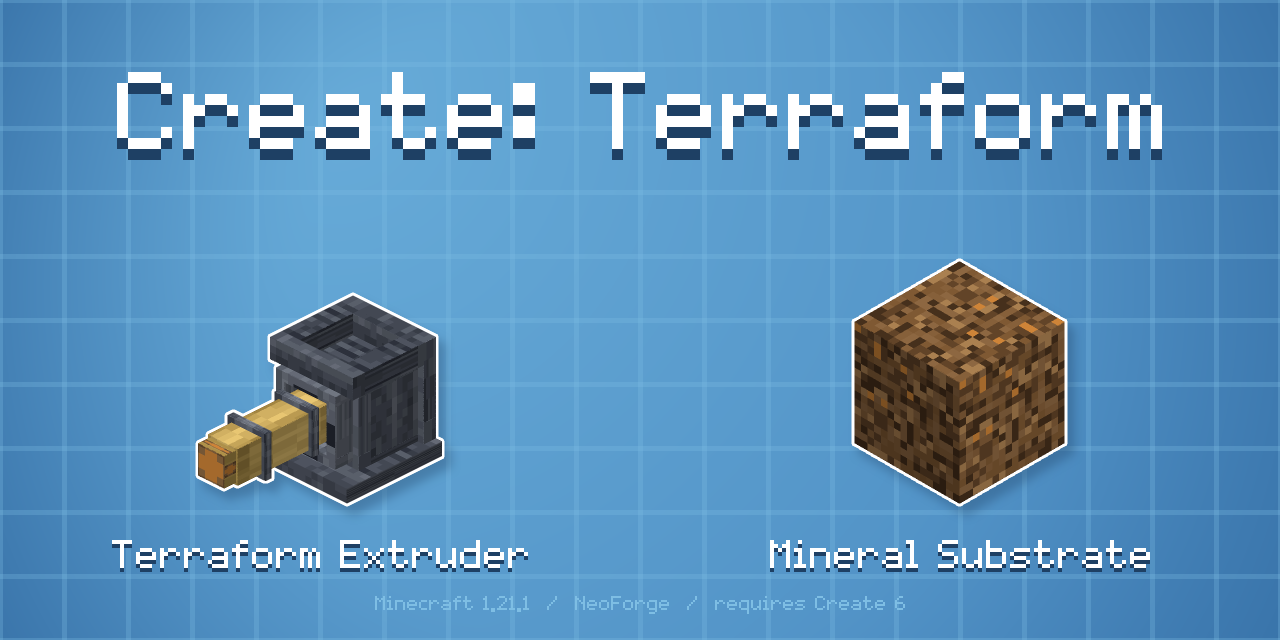
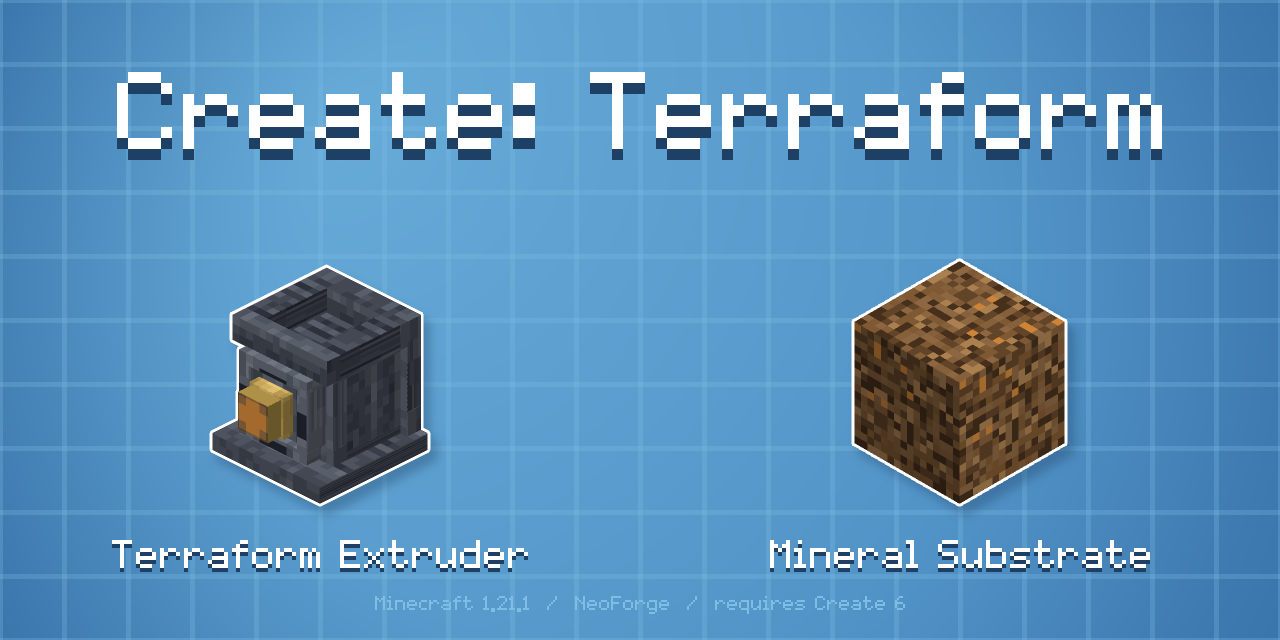
Unswap the vertical facings, and stow the barrel in the item
An Extruder placed pointing up faced down. The casing is authored facing
south, so each blockstate variant is the rotation carrying +Z onto the
facing, and the two vertical ones were the wrong way round.

Create's Mechanical Drill settles the convention, being the same kind of
block: its model is authored pointing UP -- facing=up carries no rotation
-- and facing=north is x:90. So x:90 carries +Y onto -Z, and the same
rotation carries +Z onto +Y. South-authored, that makes x:90 the up
variant and x:270 the down one.

The item model now stows the barrel. In the world it rests at working
reach, with the cutting head a pixel short of the block being printed
into, which is right there and wasteful in an inventory slot: fifteen
pixels of it hang outside the cell and everything else shrinks to make
room, so the icon was a small machine and a long lance. Wound back to
just clear of the chuck, the item is the machine.

That is the one place the item model is allowed to disagree with the
partials, and it is a difference of pose rather than of parts: same
boxes, same textures, same order.

Claude-Session: https://claude.ai/code/session_0132JF9mQgLwheJRjZxYX5xh

Changed region(s): [[0.125, 0.4062, 0.375, 0.8125]]

diff --git a/tools/generate_models.py b/tools/generate_models.py
@@ -245,13 +245,21 @@ def to_model(boxes, textures, comment):
             'textures': dict({'particle': particle}, **textures), 'elements': elements}
 
 
+#: The casing is authored facing SOUTH, so each variant is the rotation that carries +Z onto the
+#: facing. The two vertical ones were the wrong way round, which put an Extruder placed pointing up
+#: face down and vice versa.
+#:
+#: The convention is fixed by Create's own Mechanical Drill, which is the same kind of block: its
+#: model is authored pointing UP -- `facing=up` carries no rotation -- and `facing=north` is `x: 90`.
+#: So `x: 90` carries +Y onto -Z, and the same rotation carries +Z onto +Y. South-authored, that
+#: makes `x: 90` the UP variant and `x: 270` the DOWN one.
 VARIANTS = {
     'facing=south': {},
     'facing=north': {'y': 180},
     'facing=east':  {'y': 270},
     'facing=west':  {'y': 90},
-    'facing=up':    {'x': 270},
-    'facing=down':  {'x': 90},
+    'facing=up':    {'x': 90},
+    'facing=down':  {'x': 270},
 }
 
 
@@ -366,6 +374,21 @@ def main():
     # The item has to show the machine complete, because the block model leaves the moving parts to
     # the renderer. Create does the same in deployer/item.json. Built from the same sources here so
     # it cannot drift out of step by hand.
+    # The barrel, stowed, for the item only. In the world it rests at working reach, with the
+    # cutting head a pixel short of the block being printed into -- which is correct there and
+    # wasteful in an inventory slot: fifteen pixels of it hang outside the cell, and everything has
+    # to shrink to make room, so the machine ends up small and mostly air. Wound back to just clear
+    # of the chuck, the item is the machine rather than the machine and a lance.
+    #
+    # The one place the item model is allowed to disagree with the partials, and it is a difference
+    # of pose rather than of parts: same boxes, same textures, same order.
+    stowed = [
+        {'from': [5.5, 2, 5.5], 'to': [10.5, 9, 10.5], '__tex': 'ram'},
+        {'from': [5.5, 9, 5.5], 'to': [10.5, 16, 10.5], '__tex': 'barrel'},
+        {'from': [4.8, 13.5, 4.8], 'to': [11.2, 14.5, 11.2], '__tex': 'ram'},
+        {'from': [5.8, 16, 5.8], 'to': [10.2, 18, 10.2], '__tex': 'die'},
+    ]
+
     # Both partials stand on the facing now, and both are authored pointing up, so both turn the
     # same way here. While rotation came in the side there were two mappings and getting them the
     # same way round buried the gears in the front wall, where the item showed a machine that could
@@ -376,7 +399,7 @@ def main():
                     'east': 'east', 'west': 'west'})
 
     extra = []
-    for parts in (barrel, spindle):
+    for parts in (stowed, spindle):
         move, remap = ONTO_FACING
         for box in parts:
             rotated_lo, rotated_hi = move(box['from'], box['to'])
@@ -397,7 +420,7 @@ def main():
             'display': {'gui': {'rotation': [30, 315, 0], 'translation': [0, 0, 0],
                                 'scale': [0.625, 0.625, 0.625]}},
             'textures': dict(shell['textures'],
-                             **{name: TEX[name] for p in (barrel, spindle) for b in p
+                             **{name: TEX[name] for p in (stowed, spindle) for b in p
                                 for name in (b['__tex'], b.get('__tex_end')) if name}),
             'elements': [{k: v for k, v in e.items() if k != '__comment'} for e in shell['elements']] + extra}
     write('models/item/terraform_extruder.json', item)

diff --git a/CLAUDE.md b/CLAUDE.md
@@ -272,6 +272,18 @@ fuel bill.
   Press fifteen. A renderer without it does not fail, it quietly draws every one of them square, so
   a press comes out looking like a furnace. A rotated face keeps the shade of the direction it was
   *declared* in rather than the one it now points, which is what the game does too.
+- **The blockstate's vertical variants follow Create's Drill, not intuition.** The casing is
+  authored facing south, so each variant is the rotation carrying +Z onto the facing. Create's
+  Mechanical Drill is the same kind of block and fixes the convention: its model is authored
+  pointing **up** (`facing=up` carries no rotation) and `facing=north` is `x: 90`, so `x: 90` carries
+  +Y onto -Z, and the same rotation carries +Z onto +Y. South-authored, that makes `x: 90` the **up**
+  variant and `x: 270` the **down** one. They were the wrong way round, so an Extruder placed
+  pointing up faced down.
+- **The item model stows the barrel; the partials do not.** In the world the barrel rests at working
+  reach, with the cutting head a pixel short of the block being printed into. In an inventory slot
+  that is fifteen pixels hanging outside the cell, and everything shrinks to make room, so the icon
+  was mostly air. The item winds it back to just clear of the chuck. It is the one place the item
+  model is allowed to disagree with the partials, and it is a difference of pose rather than parts.
 - **An item's icon is drawn from its model's own `display.gui` rotation**, not from a camera chosen
   here, so a picture of an item and the item in an inventory cannot disagree. `minecraft:block/block`
   hands down `[30, 225, 0]`, which shows a block's **north and east** faces. This casing is authored
